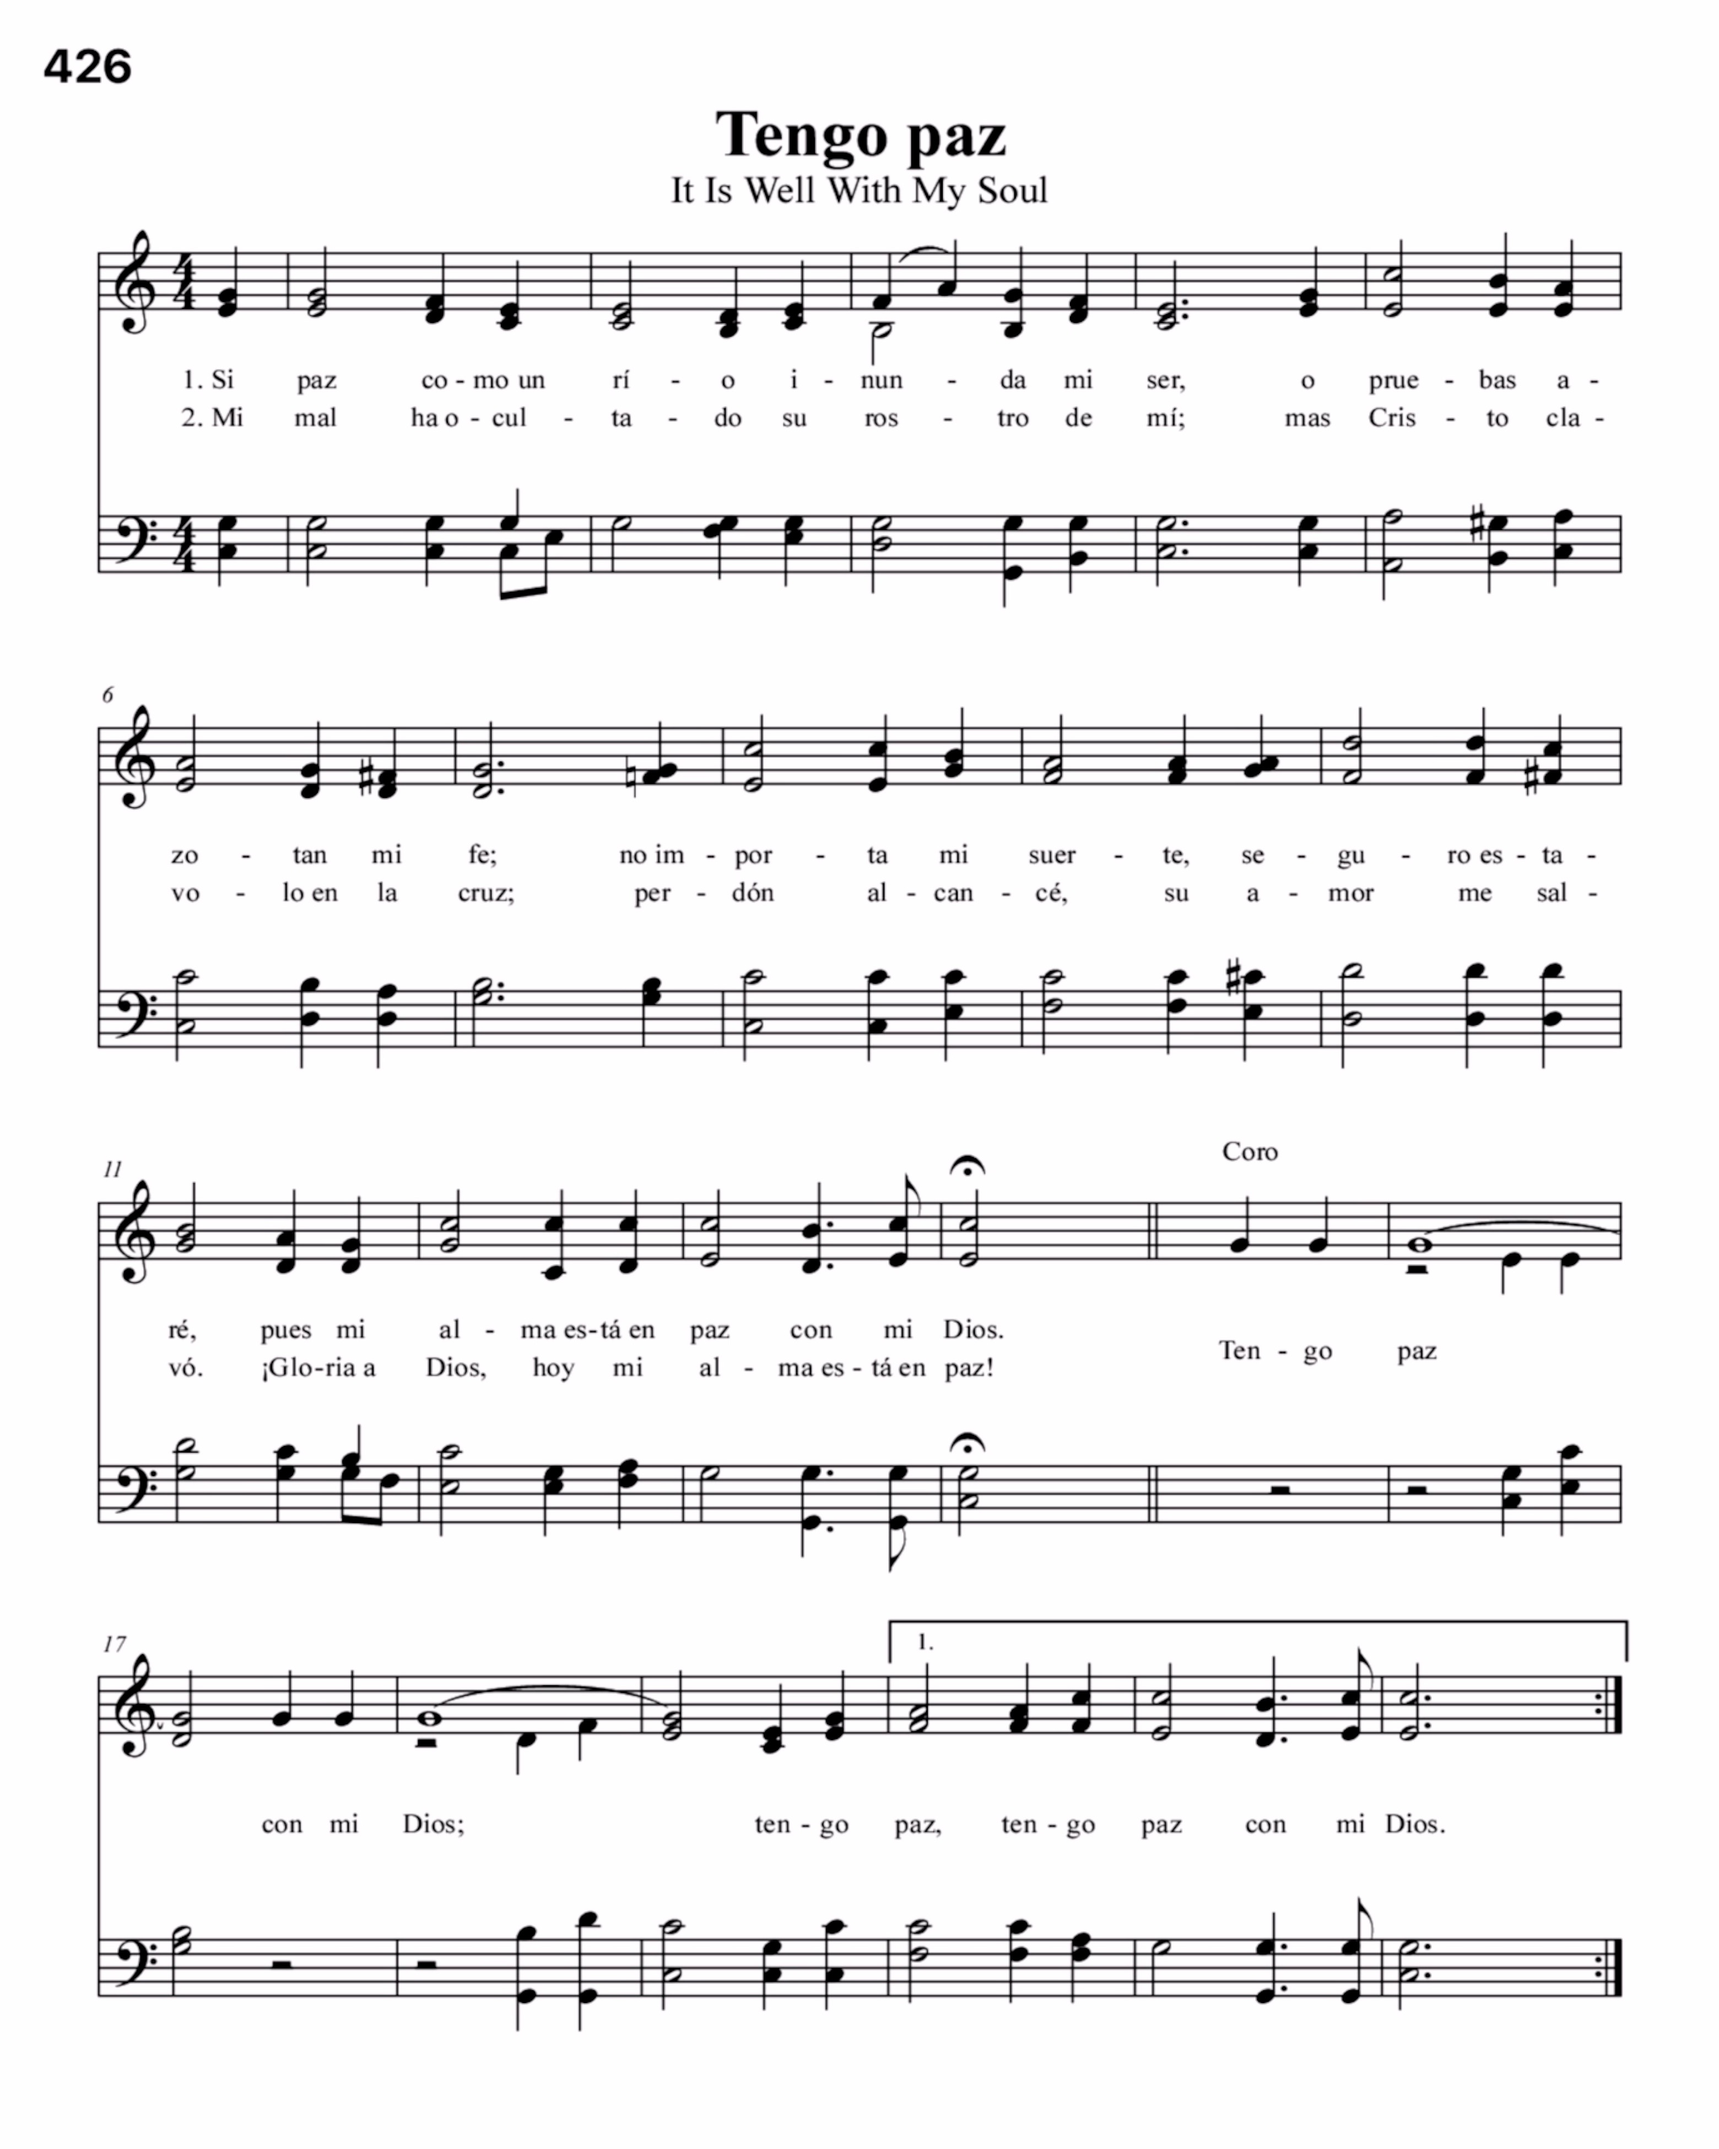
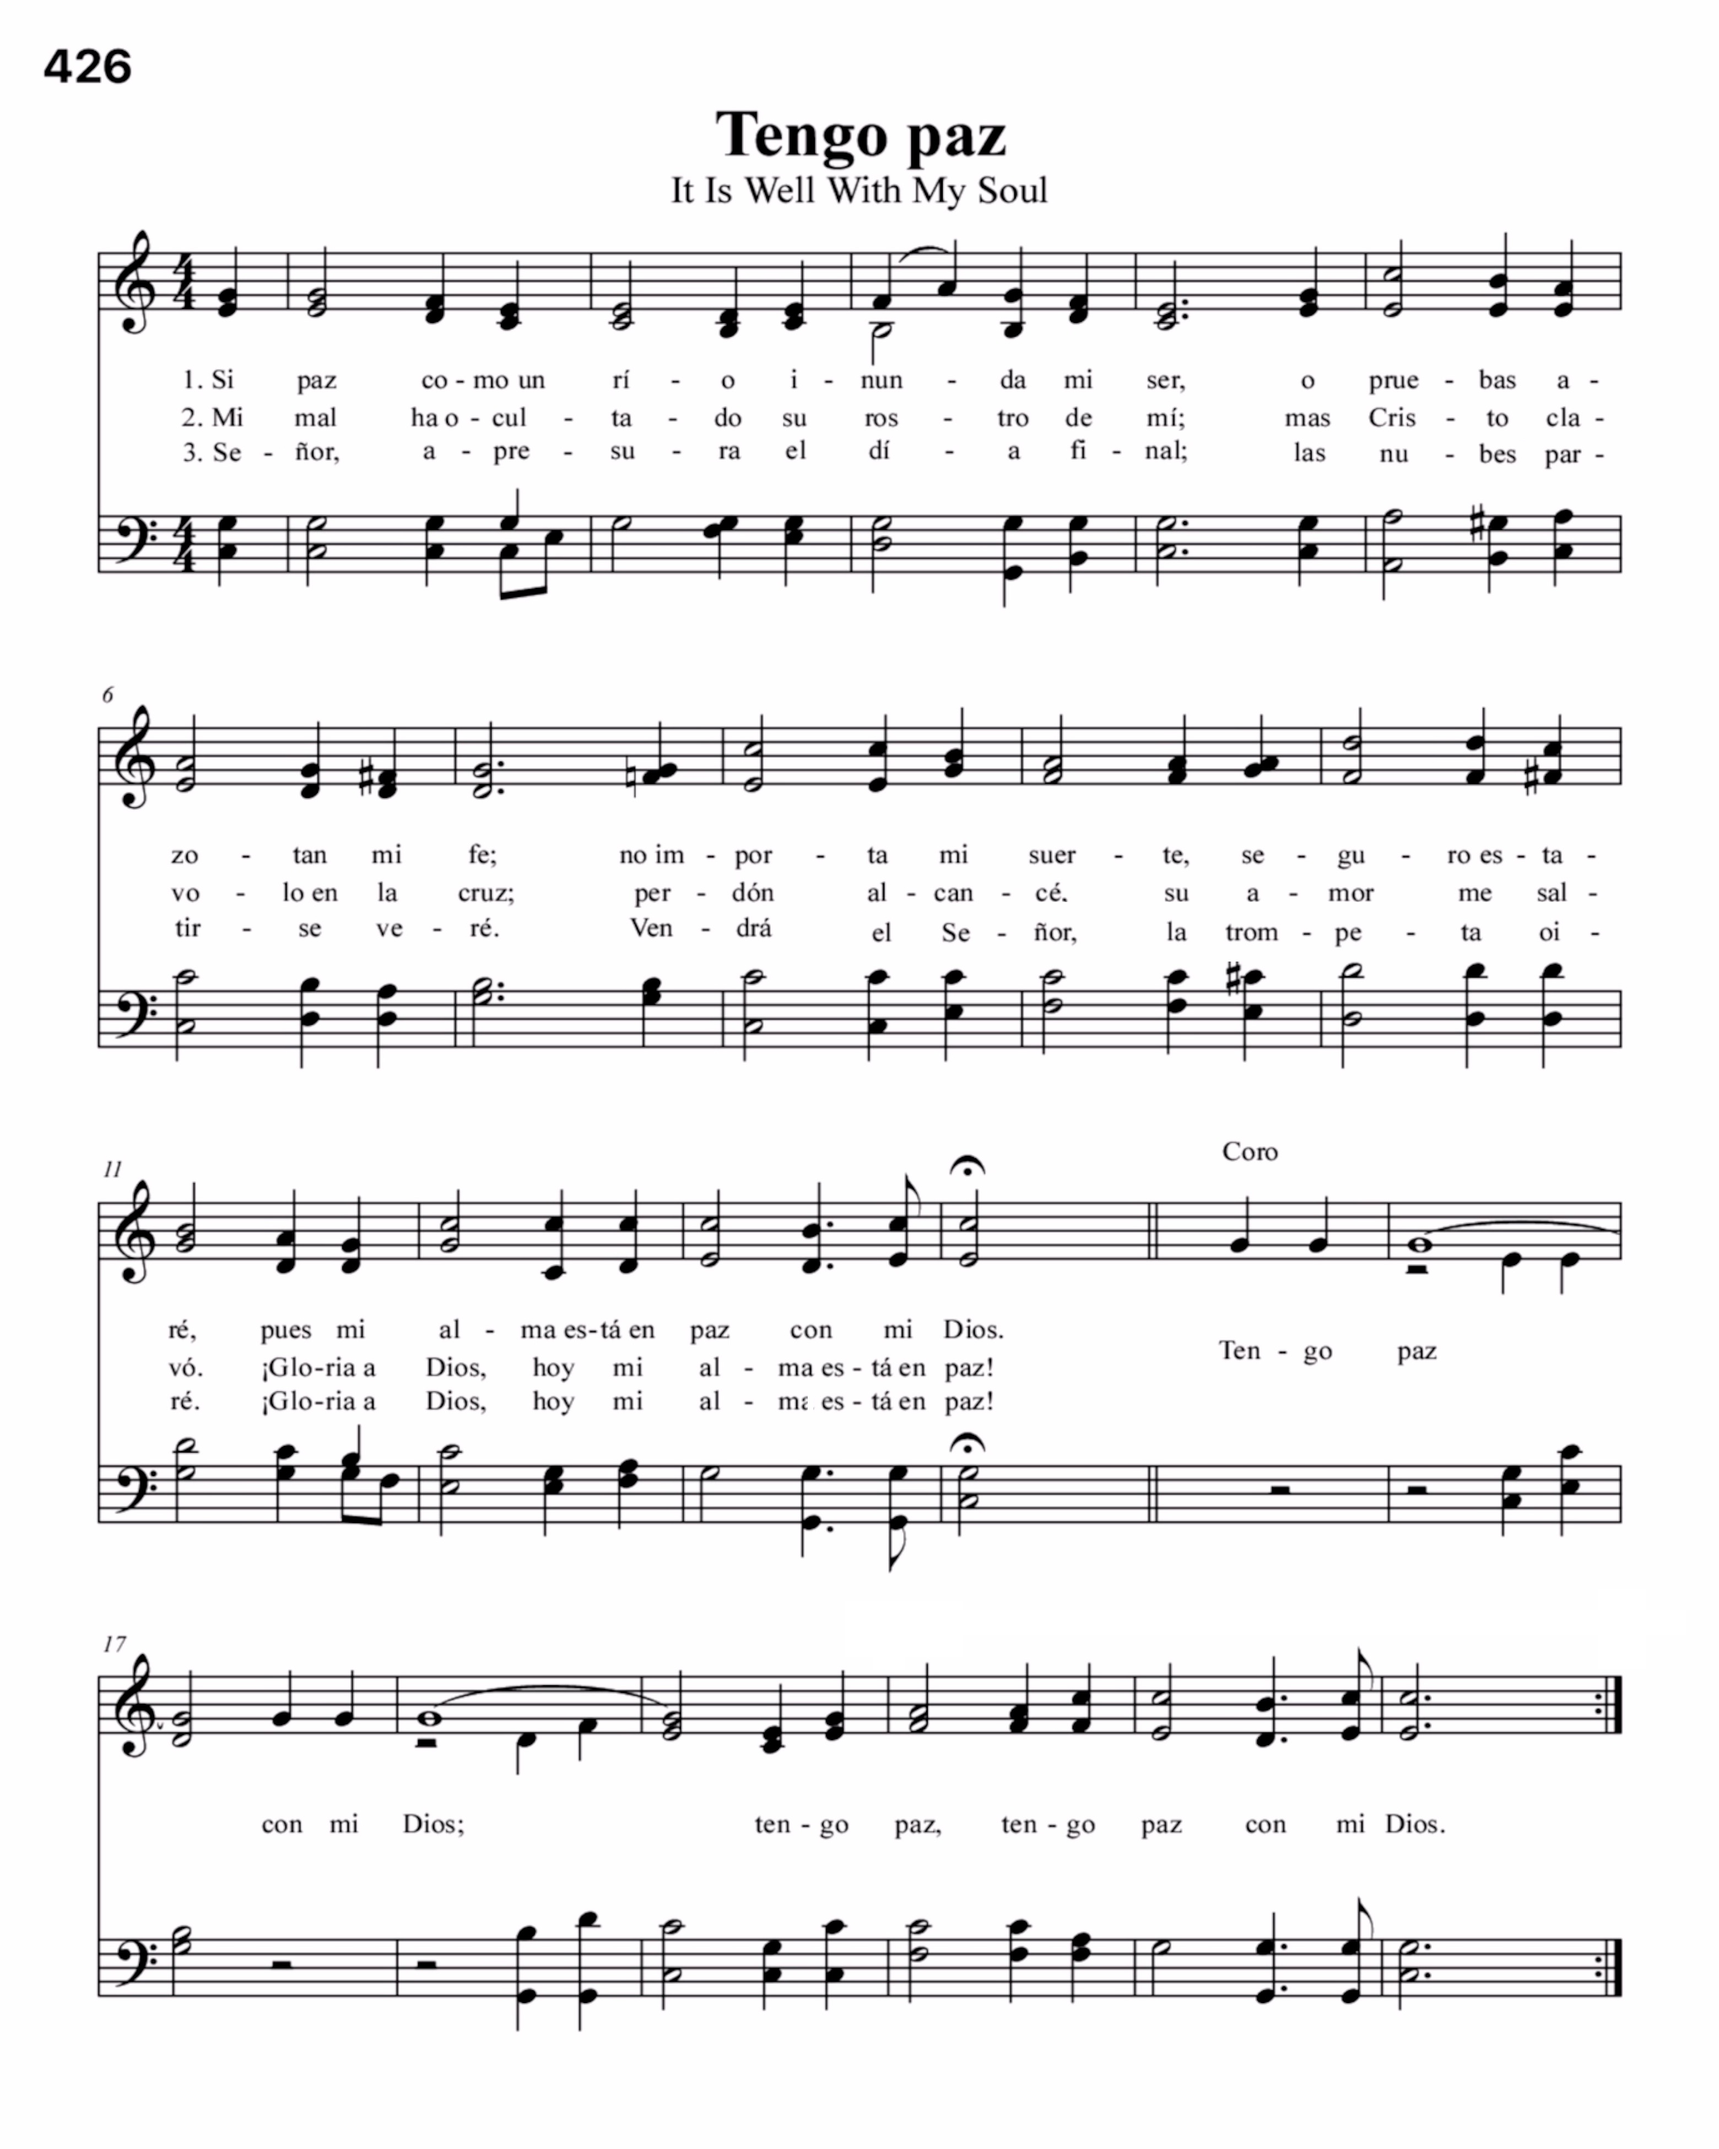
version 10.0 text/sheet music fixes
English 073, 530
Spanish 158, 426, 588
Removed linked songs that shouldn't be

diff --git a/service-worker.js b/service-worker.js
@@ -1,5 +1,5 @@
-const MAJOR_VERSION = '9';  // Change this for major version updates
-const MINOR_VERSION = '3';  // Change this for minor version updates
+const MAJOR_VERSION = '10';  // Change this for major version updates
+const MINOR_VERSION = '0';  // Change this for minor version updates
 
 const MAJOR_CACHE = `pwa-cache-major-v${MAJOR_VERSION}`;
 const MINOR_CACHE = `pwa-cache-minor-v${MAJOR_VERSION}.${MINOR_VERSION}`;

diff --git a/index.html b/index.html
@@ -67,7 +67,7 @@
     <button id="auto-cycle" onclick="window.location.href='download.html'">Save Hymnal for Offline Use</button>
   
     <div style="margin-top: 10px; font-size: 14px; color: gray;">
-    Version 9.3
+    Version 10.0
     </div>
     
     <script src="scripts.js"></script>
